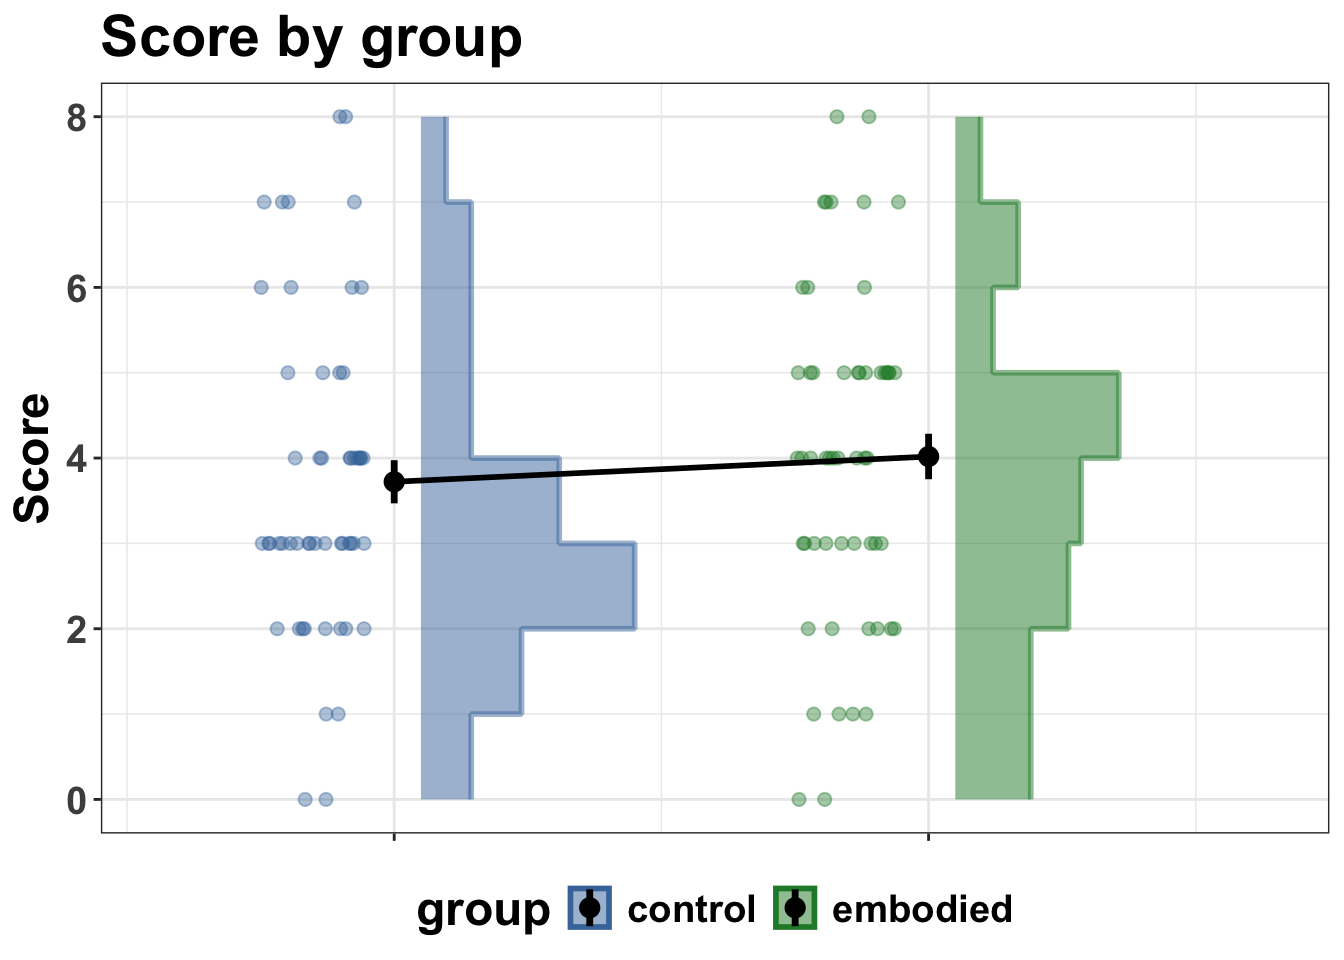
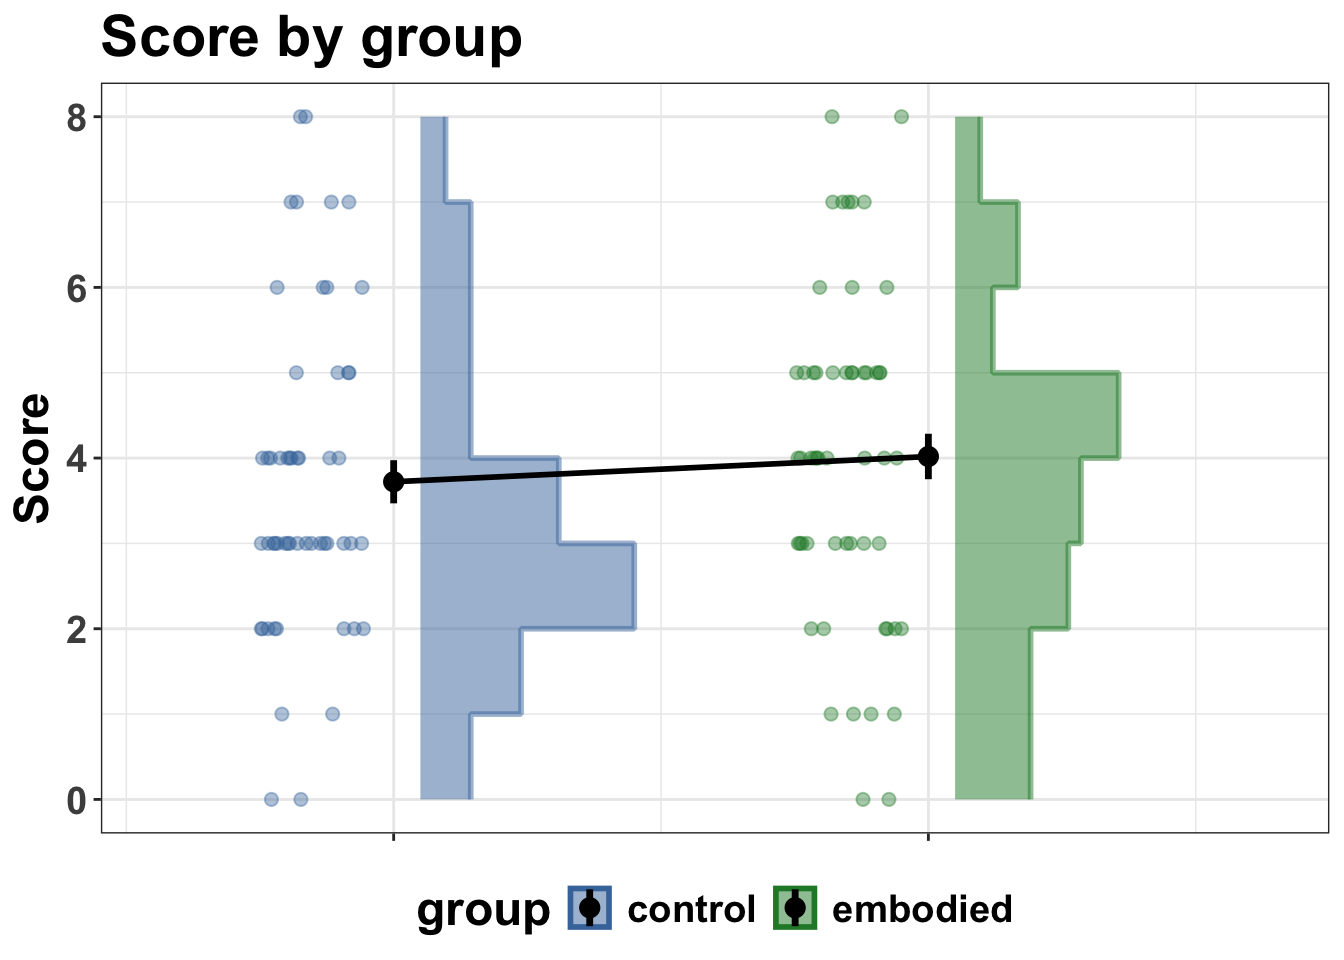
Built site for gh-pages

diff --git a/01-planning.html b/01-planning.html
@@ -653,7 +653,7 @@ Table&nbsp;1.2: Ways to evaluate which effect sizes are interesting when plannin
 </div>
 </div>
 <p>But, if you want to plan a study that does try to capture the nested or multi-level nature of the data, such as by allowing for variation across participants or measurement items <span class="citation" data-cites="barrRandomEffectsStructure2013">(<a href="references.html#ref-barrRandomEffectsStructure2013" role="doc-biblioref">Barr et al., 2013</a>)</span>, then things get complicated fast. And we need to harness the power of data simulation. So, if you’re a sucker for punishment, and if you want a more involved and simulated-based approach, then continue reading.</p>
-<p>The approach is primarily based on two resources: a series of <a href="https://solomonkurz.netlify.app/tags/power/">blog posts</a> by Solomon Kurz, and an R package called <a href="https://www.scienceverse.org/faux/">{faux}</a> by Lisa Debruine. There are also many other simulation-based approaches to plan studies with multi-level models - see the bottom of this <a href="https://www.scienceverse.org/faux/">link</a> for details. And more generally, I would strongly recommend using data simulation more generally for a variety of reasons throughout the scientific workflow that extend beyond planning <span class="citation" data-cites="gelman2024before debruineUnderstandingMixedEffectsModels2021">(<a href="references.html#ref-debruineUnderstandingMixedEffectsModels2021" role="doc-biblioref">DeBruine &amp; Barr, 2021</a>; <a href="references.html#ref-gelman2024before" role="doc-biblioref">Gelman, 2024</a>)</span>. See this <a href="https://debruine.github.io/talks/EMPSEB-fake-it-2023/#/title-slide">talk</a> by Lisa DeBruine for a nice summary.</p>
+<p>The approach is primarily based on two resources: a series of <a href="https://solomonkurz.netlify.app/tags/power/">blog posts</a> by Solomon Kurz, and an R package called <a href="https://www.scienceverse.org/faux/">{faux}</a> by Lisa DeBruine (see this <a href="https://www.youtube.com/watch?v=O8YRgcgsk2s">talk</a>). There are also many other simulation-based approaches to plan studies with multi-level models - see the bottom of this <a href="https://www.scienceverse.org/faux/">link</a> for details. And more generally, I would strongly recommend using data simulation more generally for a variety of reasons throughout the scientific workflow that extend beyond planning <span class="citation" data-cites="gelman2024before debruineUnderstandingMixedEffectsModels2021">(<a href="references.html#ref-debruineUnderstandingMixedEffectsModels2021" role="doc-biblioref">DeBruine &amp; Barr, 2021</a>; <a href="references.html#ref-gelman2024before" role="doc-biblioref">Gelman, 2024</a>)</span>. See these <a href="https://debruine.github.io/talks/EMPSEB-fake-it-2023/#/title-slide">slides</a> by Lisa DeBruine for a nice summary.</p>
 <p>The basic approach that I follow here is as follows:</p>
 <ol type="1">
 <li>Find existing data.</li>
@@ -1171,7 +1171,7 @@ Figure&nbsp;6.1: A flowchart for deciding whether to simulate.
 <h1>6. Run some simulations</h1>
 <section id="background-sources" class="level2">
 <h2 class="anchored" data-anchor-id="background-sources">6.1 background sources</h2>
-<p>The basic structure and code follows the examples outlined by Solomon Kurz in his ‘power’ blog <a href="https://solomonkurz.netlify.app/tags/power/">posts</a>, and Lisa Debruine’s R package <a href="https://www.scienceverse.org/faux/">faux{}</a> <span class="citation" data-cites="debruineUnderstandingMixedEffectsModels2021">(<a href="references.html#ref-debruineUnderstandingMixedEffectsModels2021" role="doc-biblioref">DeBruine &amp; Barr, 2021</a>)</span>. The faux package <a href="https://www.scienceverse.org/faux/articles/">vignettes</a> are particularly useful and worthwhile working through.</p>
+<p>The basic structure and code follows the examples outlined by Solomon Kurz in his ‘power’ blog <a href="https://solomonkurz.netlify.app/tags/power/">posts</a>, and Lisa DeBruine’s R package <a href="https://www.scienceverse.org/faux/">faux{}</a> <span class="citation" data-cites="debruineUnderstandingMixedEffectsModels2021">(<a href="references.html#ref-debruineUnderstandingMixedEffectsModels2021" role="doc-biblioref">DeBruine &amp; Barr, 2021</a>)</span>. The faux package <a href="https://www.scienceverse.org/faux/articles/">vignettes</a> are particularly useful and worthwhile working through.</p>
 <p>You could also look at these examples by Rich, which show how you might simulate multi-level data for a range of factorial designs: <a href="https://github.com/rich-ramsey/sim_demo">https://github.com/rich-ramsey/sim_demo</a>.</p>
 </section>
 <section id="general-approach" class="level2">
@@ -2765,10 +2765,10 @@ McElreath, R. (2020). <em>Statistical rethinking: <span>A Bayesian</span> course
 <span id="cb79-96"><a href="#cb79-96" aria-hidden="true" tabindex="-1"></a>And we need to harness the power of data simulation.</span>
 <span id="cb79-97"><a href="#cb79-97" aria-hidden="true" tabindex="-1"></a>So, if you're a sucker for punishment, and if you want a more involved and simulated-based approach, then continue reading. </span>
 <span id="cb79-98"><a href="#cb79-98" aria-hidden="true" tabindex="-1"></a></span>
-<span id="cb79-99"><a href="#cb79-99" aria-hidden="true" tabindex="-1"></a>The approach is primarily based on two resources: a series of <span class="co">[</span><span class="ot">blog posts</span><span class="co">](https://solomonkurz.netlify.app/tags/power/)</span> by Solomon Kurz, and an R package called <span class="co">[</span><span class="ot">{faux}</span><span class="co">](https://www.scienceverse.org/faux/)</span> by Lisa Debruine. </span>
+<span id="cb79-99"><a href="#cb79-99" aria-hidden="true" tabindex="-1"></a>The approach is primarily based on two resources: a series of <span class="co">[</span><span class="ot">blog posts</span><span class="co">](https://solomonkurz.netlify.app/tags/power/)</span> by Solomon Kurz, and an R package called <span class="co">[</span><span class="ot">{faux}</span><span class="co">](https://www.scienceverse.org/faux/)</span> by Lisa DeBruine (see this <span class="co">[</span><span class="ot">talk</span><span class="co">](https://www.youtube.com/watch?v=O8YRgcgsk2s)</span>). </span>
 <span id="cb79-100"><a href="#cb79-100" aria-hidden="true" tabindex="-1"></a>There are also many other simulation-based approaches to plan studies with multi-level models - see the bottom of this <span class="co">[</span><span class="ot">link</span><span class="co">](https://www.scienceverse.org/faux/)</span> for details. </span>
 <span id="cb79-101"><a href="#cb79-101" aria-hidden="true" tabindex="-1"></a>And more generally, I would strongly recommend using data simulation more generally for a variety of reasons throughout the scientific workflow that extend beyond planning <span class="co">[</span><span class="ot">@gelman2024before; @debruineUnderstandingMixedEffectsModels2021</span><span class="co">]</span>. </span>
-<span id="cb79-102"><a href="#cb79-102" aria-hidden="true" tabindex="-1"></a>See this <span class="co">[</span><span class="ot">talk</span><span class="co">](https://debruine.github.io/talks/EMPSEB-fake-it-2023/#/title-slide)</span> by Lisa DeBruine for a nice summary.</span>
+<span id="cb79-102"><a href="#cb79-102" aria-hidden="true" tabindex="-1"></a>See these <span class="co">[</span><span class="ot">slides</span><span class="co">](https://debruine.github.io/talks/EMPSEB-fake-it-2023/#/title-slide)</span> by Lisa DeBruine for a nice summary.</span>
 <span id="cb79-103"><a href="#cb79-103" aria-hidden="true" tabindex="-1"></a></span>
 <span id="cb79-104"><a href="#cb79-104" aria-hidden="true" tabindex="-1"></a>The basic approach that I follow here is as follows:</span>
 <span id="cb79-105"><a href="#cb79-105" aria-hidden="true" tabindex="-1"></a></span>
@@ -3284,7 +3284,7 @@ McElreath, R. (2020). <em>Statistical rethinking: <span>A Bayesian</span> course
 <span id="cb79-641"><a href="#cb79-641" aria-hidden="true" tabindex="-1"></a><span class="fu">## 6.1 background sources </span></span>
 <span id="cb79-642"><a href="#cb79-642" aria-hidden="true" tabindex="-1"></a></span>
 <span id="cb79-643"><a href="#cb79-643" aria-hidden="true" tabindex="-1"></a>The basic structure and code follows the examples outlined by Solomon Kurz in his</span>
-<span id="cb79-644"><a href="#cb79-644" aria-hidden="true" tabindex="-1"></a>'power' blog <span class="co">[</span><span class="ot">posts</span><span class="co">](https://solomonkurz.netlify.app/tags/power/)</span>, and Lisa Debruine's R package <span class="co">[</span><span class="ot">faux{}</span><span class="co">](https://www.scienceverse.org/faux/)</span> <span class="co">[</span><span class="ot">@debruineUnderstandingMixedEffectsModels2021</span><span class="co">]</span>. </span>
+<span id="cb79-644"><a href="#cb79-644" aria-hidden="true" tabindex="-1"></a>'power' blog <span class="co">[</span><span class="ot">posts</span><span class="co">](https://solomonkurz.netlify.app/tags/power/)</span>, and Lisa DeBruine's R package <span class="co">[</span><span class="ot">faux{}</span><span class="co">](https://www.scienceverse.org/faux/)</span> <span class="co">[</span><span class="ot">@debruineUnderstandingMixedEffectsModels2021</span><span class="co">]</span>. </span>
 <span id="cb79-645"><a href="#cb79-645" aria-hidden="true" tabindex="-1"></a>The faux package <span class="co">[</span><span class="ot">vignettes</span><span class="co">](https://www.scienceverse.org/faux/articles/)</span> are particularly useful and worthwhile working through.</span>
 <span id="cb79-646"><a href="#cb79-646" aria-hidden="true" tabindex="-1"></a></span>
 <span id="cb79-647"><a href="#cb79-647" aria-hidden="true" tabindex="-1"></a>You could also look at these examples by Rich, which show how you might simulate multi-level data for a range of factorial designs: <span class="co">[</span><span class="ot">https://github.com/rich-ramsey/sim_demo</span><span class="co">](https://github.com/rich-ramsey/sim_demo)</span>.</span>

diff --git a/index.html b/index.html
@@ -7,7 +7,7 @@
 <meta name="viewport" content="width=device-width, initial-scale=1.0, user-scalable=yes">
 
 <meta name="author" content="Rich Ramsey">
-<meta name="dcterms.date" content="2026-06-05">
+<meta name="dcterms.date" content="2026-06-12">
 
 <title>A Workflow for Experiment Planning and Data Analysis in Education Research</title>
 <style>
@@ -407,6 +407,7 @@ pre > code.sourceCode > span > a:first-child::before { text-decoration: underlin
   <li><a href="#a-note-on-data" id="toc-a-note-on-data" class="nav-link" data-scroll-target="#a-note-on-data">A note on data</a></li>
   <li><a href="#feedback" id="toc-feedback" class="nav-link" data-scroll-target="#feedback">Feedback</a></li>
   <li><a href="#license-and-citation" id="toc-license-and-citation" class="nav-link" data-scroll-target="#license-and-citation">License and citation</a></li>
+  <li><a href="#acknowledgments" id="toc-acknowledgments" class="nav-link" data-scroll-target="#acknowledgments">Acknowledgments</a></li>
   </ul></li>
   </ul>
 <div class="toc-actions"><ul><li><a href="https://github.com/rich-ramsey/li-lab-workflow/edit/main/index.qmd" class="toc-action"><i class="bi bi-github"></i>Edit this page</a></li><li><a href="https://github.com/rich-ramsey/li-lab-workflow/issues/new" class="toc-action"><i class="bi empty"></i>Report an issue</a></li><li><a href="https://github.com/rich-ramsey/li-lab-workflow/blob/main/index.qmd" class="toc-action"><i class="bi empty"></i>View source</a></li></ul></div></nav>
@@ -434,7 +435,7 @@ pre > code.sourceCode > span > a:first-child::before { text-decoration: underlin
     <div>
     <div class="quarto-title-meta-heading">Published</div>
     <div class="quarto-title-meta-contents">
-      <p class="date">June 5, 2026</p>
+      <p class="date">June 12, 2026</p>
     </div>
   </div>
   
@@ -493,6 +494,10 @@ pre > code.sourceCode > span > a:first-child::before { text-decoration: underlin
 <span id="cb1-9"><a href="#cb1-9" aria-hidden="true" tabindex="-1"></a>}</span></code></pre></div><button title="Copy to Clipboard" class="code-copy-button"><i class="bi"></i></button></div>
 </details>
 </div>
+</section>
+<section id="acknowledgments" class="level2">
+<h2 class="anchored" data-anchor-id="acknowledgments">Acknowledgments</h2>
+<p>Many thanks to Isabel Nigsch for helpful feedback on a previous version of this project.</p>
 
 
 <!-- -->
@@ -1026,22 +1031,25 @@ pre > code.sourceCode > span > a:first-child::before { text-decoration: underlin
 <span id="cb2-45"><a href="#cb2-45" aria-hidden="true" tabindex="-1"></a></span>
 <span id="cb2-46"><a href="#cb2-46" aria-hidden="true" tabindex="-1"></a><span class="fu">## License and citation</span></span>
 <span id="cb2-47"><a href="#cb2-47" aria-hidden="true" tabindex="-1"></a></span>
-<span id="cb2-48"><a href="#cb2-48" aria-hidden="true" tabindex="-1"></a>© Rich Ramsey, ETH Zürich. Licensed under </span>
-<span id="cb2-49"><a href="#cb2-49" aria-hidden="true" tabindex="-1"></a><span class="co">[</span><span class="ot">CC BY 4.0</span><span class="co">](https://creativecommons.org/licenses/by/4.0/)</span>.</span>
-<span id="cb2-50"><a href="#cb2-50" aria-hidden="true" tabindex="-1"></a></span>
-<span id="cb2-53"><a href="#cb2-53" aria-hidden="true" tabindex="-1"></a><span class="in">```{r}</span></span>
-<span id="cb2-54"><a href="#cb2-54" aria-hidden="true" tabindex="-1"></a><span class="co">#| eval: false</span></span>
-<span id="cb2-55"><a href="#cb2-55" aria-hidden="true" tabindex="-1"></a></span>
-<span id="cb2-56"><a href="#cb2-56" aria-hidden="true" tabindex="-1"></a><span class="sc">@</span>book{RamseyliLabworkflow2026,</span>
-<span id="cb2-57"><a href="#cb2-57" aria-hidden="true" tabindex="-1"></a>  title <span class="ot">=</span> {A Workflow <span class="cf">for</span> Experiment Planning and Data Analysis <span class="cf">in</span> Education Research},</span>
-<span id="cb2-58"><a href="#cb2-58" aria-hidden="true" tabindex="-1"></a>  author <span class="ot">=</span> {Ramsey, Richard},</span>
-<span id="cb2-59"><a href="#cb2-59" aria-hidden="true" tabindex="-1"></a>  year <span class="ot">=</span> {<span class="dv">2026</span>},</span>
-<span id="cb2-60"><a href="#cb2-60" aria-hidden="true" tabindex="-1"></a>  month <span class="ot">=</span> {<span class="dv">1</span>},</span>
-<span id="cb2-61"><a href="#cb2-61" aria-hidden="true" tabindex="-1"></a>  edition <span class="ot">=</span> {version <span class="fl">0.1</span>},</span>
-<span id="cb2-62"><a href="#cb2-62" aria-hidden="true" tabindex="-1"></a>  url <span class="ot">=</span> {},</span>
-<span id="cb2-63"><a href="#cb2-63" aria-hidden="true" tabindex="-1"></a>  doi <span class="ot">=</span> {}</span>
-<span id="cb2-64"><a href="#cb2-64" aria-hidden="true" tabindex="-1"></a>}</span>
-<span id="cb2-65"><a href="#cb2-65" aria-hidden="true" tabindex="-1"></a><span class="in">```</span></span>
+<span id="cb2-48"><a href="#cb2-48" aria-hidden="true" tabindex="-1"></a>© Rich Ramsey, ETH Zürich. Licensed under <span class="co">[</span><span class="ot">CC BY 4.0</span><span class="co">](https://creativecommons.org/licenses/by/4.0/)</span>.</span>
+<span id="cb2-49"><a href="#cb2-49" aria-hidden="true" tabindex="-1"></a></span>
+<span id="cb2-52"><a href="#cb2-52" aria-hidden="true" tabindex="-1"></a><span class="in">```{r}</span></span>
+<span id="cb2-53"><a href="#cb2-53" aria-hidden="true" tabindex="-1"></a><span class="co">#| eval: false</span></span>
+<span id="cb2-54"><a href="#cb2-54" aria-hidden="true" tabindex="-1"></a></span>
+<span id="cb2-55"><a href="#cb2-55" aria-hidden="true" tabindex="-1"></a><span class="sc">@</span>book{RamseyliLabworkflow2026,</span>
+<span id="cb2-56"><a href="#cb2-56" aria-hidden="true" tabindex="-1"></a>  title <span class="ot">=</span> {A Workflow <span class="cf">for</span> Experiment Planning and Data Analysis <span class="cf">in</span> Education Research},</span>
+<span id="cb2-57"><a href="#cb2-57" aria-hidden="true" tabindex="-1"></a>  author <span class="ot">=</span> {Ramsey, Richard},</span>
+<span id="cb2-58"><a href="#cb2-58" aria-hidden="true" tabindex="-1"></a>  year <span class="ot">=</span> {<span class="dv">2026</span>},</span>
+<span id="cb2-59"><a href="#cb2-59" aria-hidden="true" tabindex="-1"></a>  month <span class="ot">=</span> {<span class="dv">1</span>},</span>
+<span id="cb2-60"><a href="#cb2-60" aria-hidden="true" tabindex="-1"></a>  edition <span class="ot">=</span> {version <span class="fl">0.1</span>},</span>
+<span id="cb2-61"><a href="#cb2-61" aria-hidden="true" tabindex="-1"></a>  url <span class="ot">=</span> {},</span>
+<span id="cb2-62"><a href="#cb2-62" aria-hidden="true" tabindex="-1"></a>  doi <span class="ot">=</span> {}</span>
+<span id="cb2-63"><a href="#cb2-63" aria-hidden="true" tabindex="-1"></a>}</span>
+<span id="cb2-64"><a href="#cb2-64" aria-hidden="true" tabindex="-1"></a><span class="in">```</span></span>
+<span id="cb2-65"><a href="#cb2-65" aria-hidden="true" tabindex="-1"></a></span>
+<span id="cb2-66"><a href="#cb2-66" aria-hidden="true" tabindex="-1"></a><span class="fu">## Acknowledgments</span></span>
+<span id="cb2-67"><a href="#cb2-67" aria-hidden="true" tabindex="-1"></a></span>
+<span id="cb2-68"><a href="#cb2-68" aria-hidden="true" tabindex="-1"></a>Many thanks to Isabel Nigsch for helpful feedback on a previous version of this project.</span>
 </code></pre></div><button title="Copy to Clipboard" class="code-copy-button" data-in-quarto-modal=""><i class="bi"></i></button></div>
 </div></div></div></div></div>
 </div> <!-- /content -->
